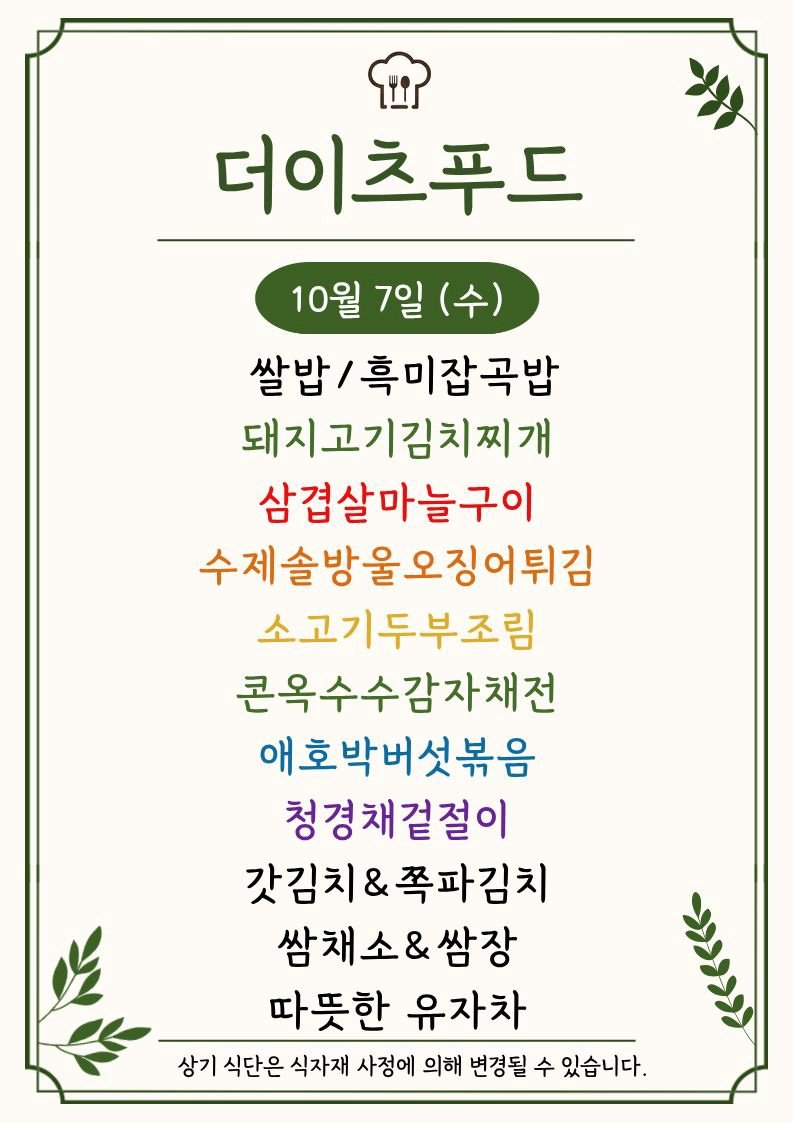
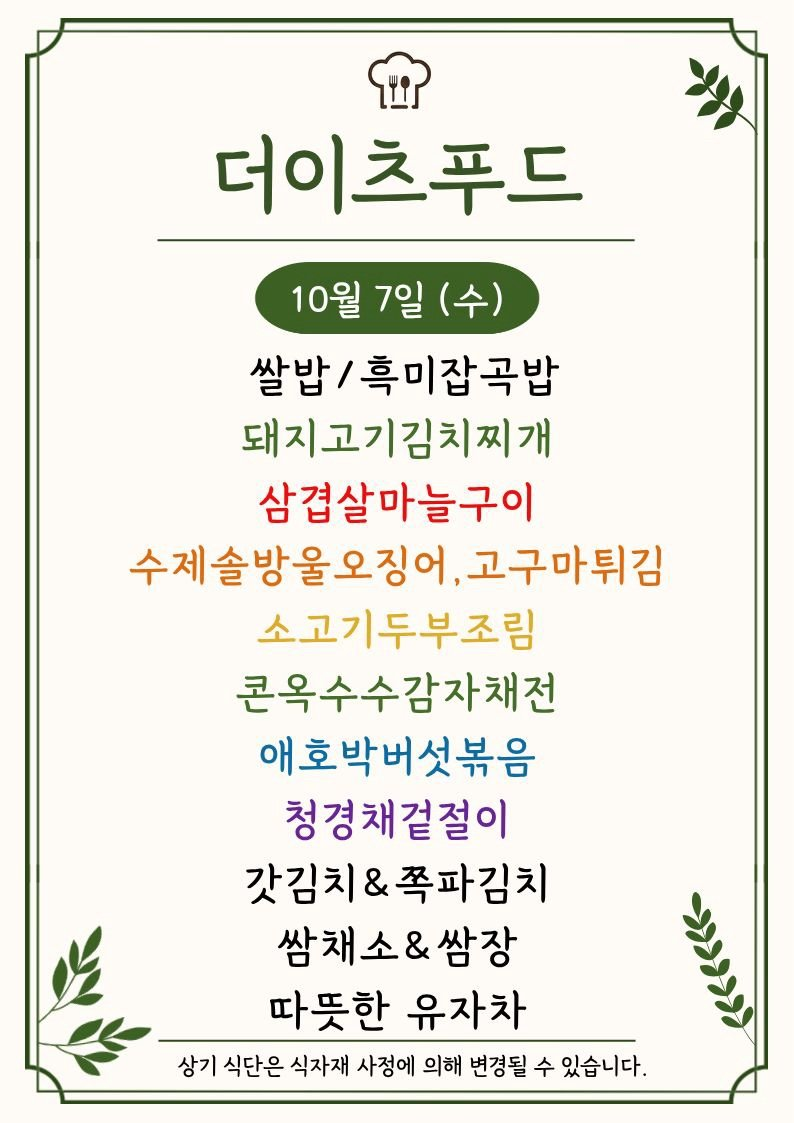
Update menu board assets

Changed region(s): [[0.1511, 0.4675, 0.8463, 0.5298]]

diff --git a/guro-menu/index.html b/guro-menu/index.html
@@ -32,7 +32,7 @@
   </header>
   <section class="meta">
     <div><small>기준 날짜</small><strong>2026년 10월 7일 수요일</strong></div>
-    <div><small>최종 갱신</small><strong>2026-10-07 10:18:39</strong></div>
+    <div><small>최종 갱신</small><strong>2026-10-07 10:33:43</strong></div>
     <div><small>등록 식당</small><strong>5개</strong></div>
   </section>
   <div class="notice">공개 카카오 채널의 메뉴 이미지를 자동 수집하고 OCR로 정리합니다. 텍스트에 오타가 있을 수 있으니 식단 이미지를 함께 확인해 주세요.</div>
@@ -76,7 +76,7 @@
         </div>
         <img class="menu-image" src="./images/the-eats-food.png" alt="더이츠푸드 식단 이미지" loading="lazy">
         
-        <ul><li>더이츠푸느</li><li>쌀밥/흑미잡곡밥</li><li>돼지고기김치찌개</li><li>삼겹살마늘구이</li><li>수제솔방울오징어튀김</li><li>콘옥수수감자채전</li><li>애호박버섯볶음</li><li>청경채겉절이</li><li>갓김치&amp;쪽파김치 y</li><li>쌈채소&amp;쌈장 %</li><li>따뜻한 유자차</li></ul>
+        <ul><li>더 이 긋표ㄷ</li><li>쌀밥/흑미잡곡밥</li><li>돼지고기김치찌개</li><li>삼겹살마늘구이</li><li>수제솔방울오징어,고구마튀김</li><li>콘옥수수감자채전</li><li>애호박버섯볶음</li><li>청경채겉절이</li><li>갓김치&amp;쪽파김치 y</li><li>쌈채소&amp;쌈장 %</li><li>따뜻한 유자차 %</li></ul>
       </article>
 
       <article class="restaurant-card">

diff --git a/menu-today/index.html b/menu-today/index.html
@@ -209,7 +209,7 @@
 
     <section class="meta-bar">
       <div class="meta-card"><div class="meta-label">기준 날짜</div><div class="meta-value">2026년 10월 7일 수요일</div></div>
-      <div class="meta-card"><div class="meta-label">최종 가져온 시간</div><div class="meta-value">2026-10-07 10:18:26</div></div>
+      <div class="meta-card"><div class="meta-label">최종 가져온 시간</div><div class="meta-value">2026-10-07 10:33:27</div></div>
       <div class="meta-card"><div class="meta-label">확인 완료</div><div class="meta-value">9개 식당</div></div>
       <div class="meta-card"><div class="meta-label">준비중</div><div class="meta-value">3개 채널</div></div>
     </section>
